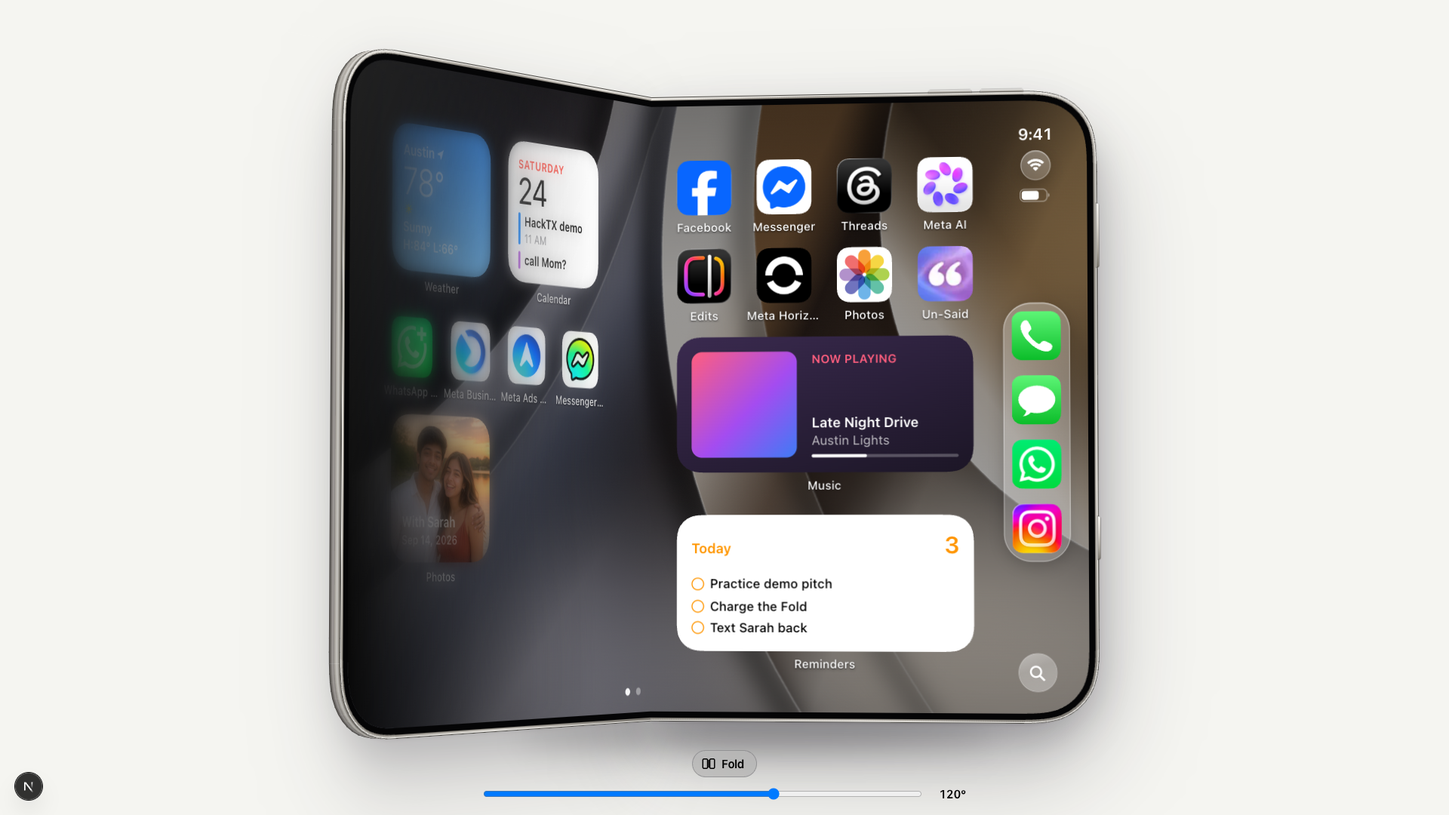
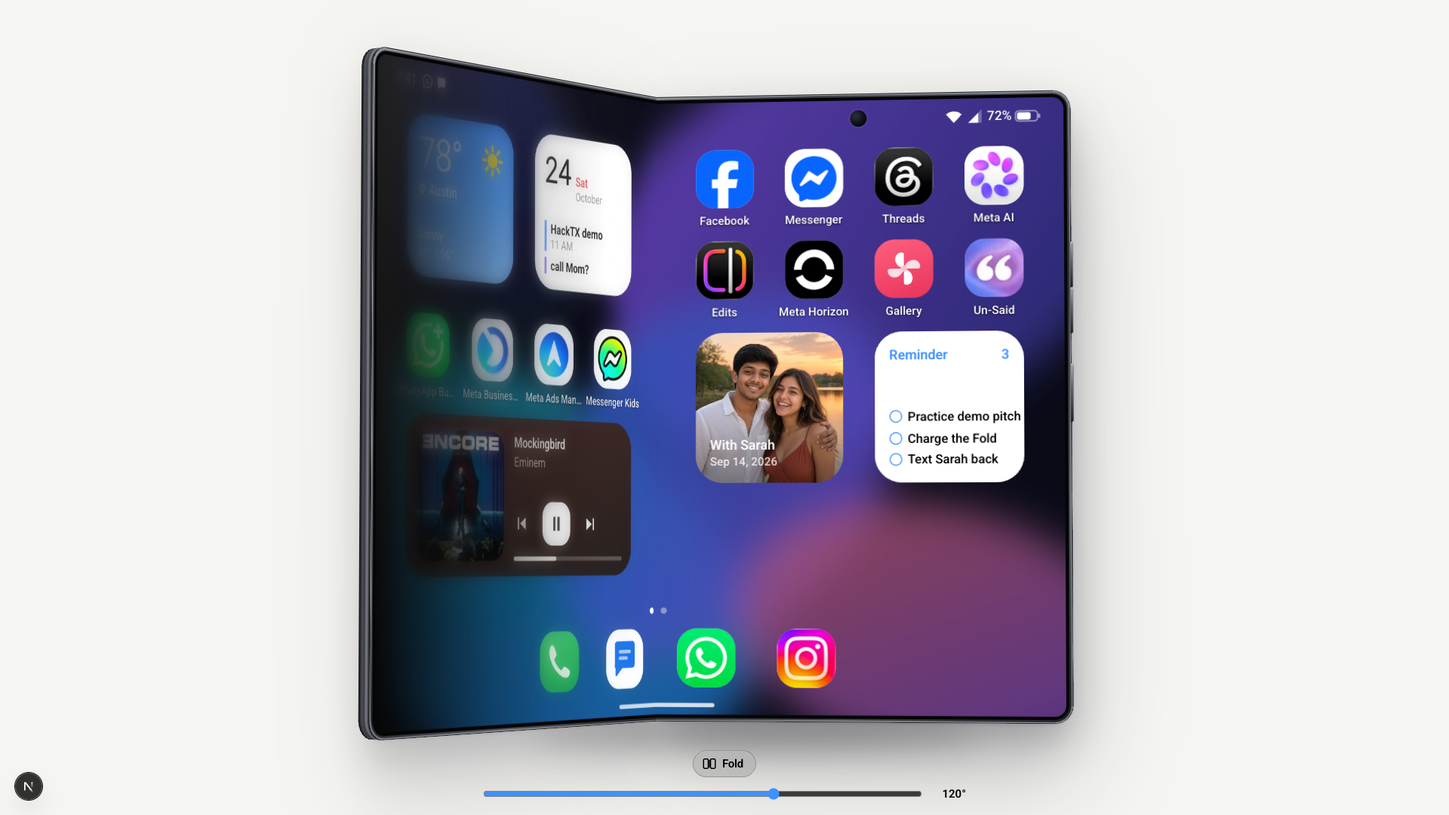
galaxy-z-fold8: Android Instagram, Samsung Gallery, checks pass

diff --git a/Branched-Frontend/lib/tokens.ts b/Branched-Frontend/lib/tokens.ts
@@ -118,8 +118,6 @@ const extraColors = {
   "ig-active": "#1CD14F",
   "ig-pressed": "#F2F2F2",
   "ig-reel-stroke": "rgba(255,255,255,0.7)",
-  "photos-segment-bg": "rgba(242,242,247,0.92)",
-  "photos-chrome-fade": "linear-gradient(180deg, rgba(255,255,255,0.97) 0%, rgba(255,255,255,0.9) 70%, rgba(255,255,255,0) 100%)",
   "ig-reel-tile-scrim": "linear-gradient(180deg, rgba(0,0,0,0.45) 0%, transparent 28%, transparent 70%, rgba(0,0,0,0.55) 100%)",
   "ig-reel-viewer-scrim": "linear-gradient(180deg, rgba(0,0,0,0.35) 0%, transparent 22%, transparent 62%, rgba(0,0,0,0.6) 100%)",
 } as const;

diff --git a/Branched-Frontend/app/tokens.css b/Branched-Frontend/app/tokens.css
@@ -383,8 +383,6 @@
   --ig-active: #1CD14F;
   --ig-pressed: #F2F2F2;
   --ig-reel-stroke: rgba(255,255,255,0.7);
-  --photos-segment-bg: rgba(242,242,247,0.92);
-  --photos-chrome-fade: linear-gradient(180deg, rgba(255,255,255,0.97) 0%, rgba(255,255,255,0.9) 70%, rgba(255,255,255,0) 100%);
   --ig-reel-tile-scrim: linear-gradient(180deg, rgba(0,0,0,0.45) 0%, transparent 28%, transparent 70%, rgba(0,0,0,0.55) 100%);
   --ig-reel-viewer-scrim: linear-gradient(180deg, rgba(0,0,0,0.35) 0%, transparent 22%, transparent 62%, rgba(0,0,0,0.6) 100%);
 

diff --git a/Branched-Frontend/docs/PLACEHOLDERS.md b/Branched-Frontend/docs/PLACEHOLDERS.md
@@ -12,37 +12,69 @@ Linked (open a look-alike app on either display):
 
 - `instagram`: `InstagramApp`
 - `messages`: `MessagesApp`
+- `phone`: `PhoneApp`
 - `photos`: `PhotosApp`
 - `unsaid`: `UnsaidApp`
 - `whatsapp`: `WhatsAppApp`
 
 Every other app icon, widget, Search and hardware button is empty (`null`): the tap does nothing.
-Non-app targets: `widget-weather`, `widget-calendar`, `widget-photos`, `widget-music`, `widget-reminders`, `search`, `hw-volume-up`, `hw-volume-down`, `hw-touch-id`, `hw-camera`.
+Non-app targets: `widget-weather`, `widget-calendar`, `widget-photos`, `widget-music`, `widget-reminders`, `search`, `hw-volume-up`, `hw-volume-down`, `hw-side-key`.
 
 ## WhatsApp (`whatsapp:`)
 
+- `whatsapp:archived`: `/scene/threads/whatsapp-chats`
 - `whatsapp:attach`: `/scene/threads/mom?state=compose&typed=0`, `/scene/threads/mom?state=compose&typed=0&banner=sarah`, `/scene/threads/mom?state=compose&typed=10`, `/scene/threads/mom?state=compose&typed=11`, `/scene/threads/mom?state=compose&typed=12`, `/scene/threads/mom?state=history`, `/scene/threads/mom?state=read`, `/scene/threads/mom?state=read&seen=off`
 - `whatsapp:call-start`: `/scene/threads/mom?state=compose&typed=0`, `/scene/threads/mom?state=compose&typed=0&banner=sarah`, `/scene/threads/mom?state=compose&typed=10`, `/scene/threads/mom?state=compose&typed=11`, `/scene/threads/mom?state=compose&typed=12`, `/scene/threads/mom?state=history`, `/scene/threads/mom?state=read`, `/scene/threads/mom?state=read&seen=off`
-- `whatsapp:camera`: `/scene/threads/mom?state=compose&typed=0`, `/scene/threads/mom?state=compose&typed=0&banner=sarah`, `/scene/threads/mom?state=compose&typed=10`, `/scene/threads/mom?state=compose&typed=11`, `/scene/threads/mom?state=compose&typed=12`, `/scene/threads/mom?state=history`, `/scene/threads/mom?state=read`, `/scene/threads/mom?state=read&seen=off`, `/test/placeholder`
+- `whatsapp:camera`: `/scene/threads/mom?state=compose&typed=0`, `/scene/threads/mom?state=compose&typed=0&banner=sarah`, `/scene/threads/mom?state=history`, `/scene/threads/mom?state=read`, `/scene/threads/mom?state=read&seen=off`, `/scene/threads/whatsapp-chats`, `/test/placeholder`
 - `whatsapp:contact-info`: `/scene/threads/mom?state=compose&typed=0`, `/scene/threads/mom?state=compose&typed=0&banner=sarah`, `/scene/threads/mom?state=compose&typed=10`, `/scene/threads/mom?state=compose&typed=11`, `/scene/threads/mom?state=compose&typed=12`, `/scene/threads/mom?state=history`, `/scene/threads/mom?state=read`, `/scene/threads/mom?state=read&seen=off`
-- `whatsapp:dictation`: `/scene/threads/mom?state=compose&typed=0`, `/scene/threads/mom?state=compose&typed=0&banner=sarah`, `/scene/threads/mom?state=compose&typed=10`, `/scene/threads/mom?state=compose&typed=11`, `/scene/threads/mom?state=compose&typed=12`
+- `whatsapp:dictation`: `/scene/threads/mom?state=compose&typed=0`, `/scene/threads/mom?state=compose&typed=0&banner=sarah`
+- `whatsapp:keyboard-clipboard`: `/scene/threads/mom?state=compose&typed=0`, `/scene/threads/mom?state=compose&typed=0&banner=sarah`
+- `whatsapp:keyboard-gif`: `/scene/threads/mom?state=compose&typed=0`, `/scene/threads/mom?state=compose&typed=0&banner=sarah`
+- `whatsapp:keyboard-more`: `/scene/threads/mom?state=compose&typed=0`, `/scene/threads/mom?state=compose&typed=0&banner=sarah`
+- `whatsapp:keyboard-settings`: `/scene/threads/mom?state=compose&typed=0`, `/scene/threads/mom?state=compose&typed=0&banner=sarah`
+- `whatsapp:keyboard-stickers`: `/scene/threads/mom?state=compose&typed=0`, `/scene/threads/mom?state=compose&typed=0&banner=sarah`
+- `whatsapp:menu`: `/scene/threads/mom?state=compose&typed=0`, `/scene/threads/mom?state=compose&typed=0&banner=sarah`, `/scene/threads/mom?state=compose&typed=10`, `/scene/threads/mom?state=compose&typed=11`, `/scene/threads/mom?state=compose&typed=12`, `/scene/threads/mom?state=history`, `/scene/threads/mom?state=read`, `/scene/threads/mom?state=read&seen=off`
+- `whatsapp:new-chat`: `/scene/threads/whatsapp-chats`
+- `whatsapp:new-list`: `/scene/threads/whatsapp-chats`
+- `whatsapp:search`: `/scene/threads/whatsapp-chats`
 - `whatsapp:sticker`: `/scene/threads/mom?state=compose&typed=0`, `/scene/threads/mom?state=compose&typed=0&banner=sarah`, `/scene/threads/mom?state=compose&typed=10`, `/scene/threads/mom?state=compose&typed=11`, `/scene/threads/mom?state=compose&typed=12`, `/scene/threads/mom?state=history`, `/scene/threads/mom?state=read`, `/scene/threads/mom?state=read&seen=off`
 - `whatsapp:voice-note`: `/scene/threads/mom?state=compose&typed=0`, `/scene/threads/mom?state=compose&typed=0&banner=sarah`, `/scene/threads/mom?state=compose&typed=10`, `/scene/threads/mom?state=compose&typed=11`, `/scene/threads/mom?state=compose&typed=12`, `/scene/threads/mom?state=history`, `/scene/threads/mom?state=read`, `/scene/threads/mom?state=read&seen=off`
 
 ## Messages (`messages:`)
 
-- `messages:dictation`: `/scene/threads/sarah?state=compose&typed=0`, `/scene/threads/sarah?state=compose&typed=33`, `/scene/threads/sarah?state=read-receipt`, `/scene/threads/sarah?state=read-receipt&banner=michael`, `/scene/threads/sarah?state=sent`, `/scene/threads/sarah?state=typing`
+- `messages:attach`: `/scene/threads/sarah?state=compose&typed=0`, `/scene/threads/sarah?state=compose&typed=33`, `/scene/threads/sarah?state=history`, `/scene/threads/sarah?state=read`, `/scene/threads/sarah?state=read-receipt`, `/scene/threads/sarah?state=read-receipt&banner=michael`, `/scene/threads/sarah?state=sent`, `/scene/threads/sarah?state=typing`
+- `messages:contact-details`: `/scene/threads/sarah?state=compose&typed=0`, `/scene/threads/sarah?state=compose&typed=33`, `/scene/threads/sarah?state=history`, `/scene/threads/sarah?state=read`, `/scene/threads/sarah?state=read-receipt`, `/scene/threads/sarah?state=read-receipt&banner=michael`, `/scene/threads/sarah?state=sent`, `/scene/threads/sarah?state=typing`
+- `messages:dictation`: `/scene/threads/sarah?state=compose&typed=0`, `/scene/threads/sarah?state=read-receipt`, `/scene/threads/sarah?state=read-receipt&banner=michael`, `/scene/threads/sarah?state=sent`, `/scene/threads/sarah?state=typing`
+- `messages:emoji`: `/scene/threads/sarah?state=compose&typed=0`, `/scene/threads/sarah?state=compose&typed=33`, `/scene/threads/sarah?state=history`, `/scene/threads/sarah?state=read`, `/scene/threads/sarah?state=read-receipt`, `/scene/threads/sarah?state=read-receipt&banner=michael`, `/scene/threads/sarah?state=sent`, `/scene/threads/sarah?state=typing`
+- `messages:gallery`: `/scene/threads/sarah?state=compose&typed=0`, `/scene/threads/sarah?state=history`, `/scene/threads/sarah?state=read`, `/scene/threads/sarah?state=read-receipt`, `/scene/threads/sarah?state=read-receipt&banner=michael`, `/scene/threads/sarah?state=sent`, `/scene/threads/sarah?state=typing`
+- `messages:keyboard-clipboard`: `/scene/threads/sarah?state=compose&typed=0`, `/scene/threads/sarah?state=read-receipt`, `/scene/threads/sarah?state=read-receipt&banner=michael`, `/scene/threads/sarah?state=sent`, `/scene/threads/sarah?state=typing`
+- `messages:keyboard-gif`: `/scene/threads/sarah?state=compose&typed=0`, `/scene/threads/sarah?state=read-receipt`, `/scene/threads/sarah?state=read-receipt&banner=michael`, `/scene/threads/sarah?state=sent`, `/scene/threads/sarah?state=typing`
+- `messages:keyboard-more`: `/scene/threads/sarah?state=compose&typed=0`, `/scene/threads/sarah?state=read-receipt`, `/scene/threads/sarah?state=read-receipt&banner=michael`, `/scene/threads/sarah?state=sent`, `/scene/threads/sarah?state=typing`
+- `messages:keyboard-settings`: `/scene/threads/sarah?state=compose&typed=0`, `/scene/threads/sarah?state=read-receipt`, `/scene/threads/sarah?state=read-receipt&banner=michael`, `/scene/threads/sarah?state=sent`, `/scene/threads/sarah?state=typing`
+- `messages:keyboard-stickers`: `/scene/threads/sarah?state=compose&typed=0`, `/scene/threads/sarah?state=read-receipt`, `/scene/threads/sarah?state=read-receipt&banner=michael`, `/scene/threads/sarah?state=sent`, `/scene/threads/sarah?state=typing`
+- `messages:more`: `/scene/threads/sarah?state=compose&typed=0`, `/scene/threads/sarah?state=compose&typed=33`, `/scene/threads/sarah?state=history`, `/scene/threads/sarah?state=read`, `/scene/threads/sarah?state=read-receipt`, `/scene/threads/sarah?state=read-receipt&banner=michael`, `/scene/threads/sarah?state=sent`, `/scene/threads/sarah?state=typing`
 - `messages:plus`: `/test/placeholder`
+- `messages:video-call`: `/scene/threads/sarah?state=compose&typed=0`, `/scene/threads/sarah?state=compose&typed=33`, `/scene/threads/sarah?state=history`, `/scene/threads/sarah?state=read`, `/scene/threads/sarah?state=read-receipt`, `/scene/threads/sarah?state=read-receipt&banner=michael`, `/scene/threads/sarah?state=sent`, `/scene/threads/sarah?state=typing`
+- `messages:voice`: `/scene/threads/sarah?state=compose&typed=0`, `/scene/threads/sarah?state=history`, `/scene/threads/sarah?state=read`, `/scene/threads/sarah?state=read-receipt`, `/scene/threads/sarah?state=read-receipt&banner=michael`, `/scene/threads/sarah?state=sent`, `/scene/threads/sarah?state=typing`
 
 ## Instagram (`instagram:`)
 
-- `instagram:dictation`: `/scene/threads/michael?state=compose&typed=0`, `/scene/threads/michael?state=compose&typed=11`, `/scene/threads/michael?state=compose&typed=22`, `/scene/threads/michael?state=sent`, `/scene/threads/michael?state=sent&banner=unsaid`
+- `instagram:dictation`: `/scene/threads/michael?state=compose&typed=0`, `/scene/threads/michael?state=sent`, `/scene/threads/michael?state=sent&banner=unsaid`
+- `instagram:keyboard-clipboard`: `/scene/threads/michael?state=compose&typed=0`, `/scene/threads/michael?state=sent`, `/scene/threads/michael?state=sent&banner=unsaid`
+- `instagram:keyboard-gif`: `/scene/threads/michael?state=compose&typed=0`, `/scene/threads/michael?state=sent`, `/scene/threads/michael?state=sent&banner=unsaid`
+- `instagram:keyboard-more`: `/scene/threads/michael?state=compose&typed=0`, `/scene/threads/michael?state=sent`, `/scene/threads/michael?state=sent&banner=unsaid`
+- `instagram:keyboard-settings`: `/scene/threads/michael?state=compose&typed=0`, `/scene/threads/michael?state=sent`, `/scene/threads/michael?state=sent&banner=unsaid`
+- `instagram:keyboard-stickers`: `/scene/threads/michael?state=compose&typed=0`, `/scene/threads/michael?state=sent`, `/scene/threads/michael?state=sent&banner=unsaid`
 - `instagram:share`: `/test/placeholder`
 
-## Photos (`photos:`)
+## Gallery (`photos:`)
 
 - `photos:favorite`: `/test/placeholder`
 - `photos:trash`: `/test/placeholder`
+
+## Phone (`phone:`)
+
+- none yet
 
 ## Facebook (`facebook:`)
 
@@ -52,30 +84,30 @@ Non-app targets: `widget-weather`, `widget-calendar`, `widget-photos`, `widget-m
 
 - `meta-ai:send`: `/test/placeholder`
 
-## iOS (`ios:`)
+## One UI (`oneui:`)
 
-- `ios:app-edits`: `/device?state=back&bg=studio`, `/device?state=folded&bg=black`, `/device?state=folded&bg=studio`, `/device?state=folded&bg=studio&frame=bare`, `/device?state=folded&bg=white`, `/device?state=folded-angled&bg=black`, `/device?state=unfold-120&bg=studio`, `/device?state=unfold-120&bg=studio&frame=bare`, `/device?state=unfold-150&bg=studio`, `/device?state=unfold-150&bg=studio&frame=bare`, `/device?state=unfold-30&bg=studio`, `/device?state=unfold-30&bg=studio&frame=bare`, `/device?state=unfold-60&bg=studio`, `/device?state=unfold-60&bg=studio&frame=bare`, `/device?state=unfold-90&bg=studio`, `/device?state=unfold-90&bg=studio&frame=bare`, `/device?state=unfolded&bg=black`, `/device?state=unfolded&bg=studio`, `/device?state=unfolded&bg=studio&frame=bare`
-- `ios:app-facebook`: `/device?state=back&bg=studio`, `/device?state=folded&bg=black`, `/device?state=folded&bg=studio`, `/device?state=folded&bg=studio&frame=bare`, `/device?state=folded&bg=white`, `/device?state=folded-angled&bg=black`, `/device?state=unfold-120&bg=studio`, `/device?state=unfold-120&bg=studio&frame=bare`, `/device?state=unfold-150&bg=studio`, `/device?state=unfold-150&bg=studio&frame=bare`, `/device?state=unfold-30&bg=studio`, `/device?state=unfold-30&bg=studio&frame=bare`, `/device?state=unfold-60&bg=studio`, `/device?state=unfold-60&bg=studio&frame=bare`, `/device?state=unfold-90&bg=studio`, `/device?state=unfold-90&bg=studio&frame=bare`, `/device?state=unfolded&bg=black`, `/device?state=unfolded&bg=studio`, `/device?state=unfolded&bg=studio&frame=bare`
-- `ios:app-instagram`: `/device?state=back&bg=studio`, `/device?state=folded&bg=black`, `/device?state=folded&bg=studio`, `/device?state=folded&bg=studio&frame=bare`, `/device?state=folded&bg=white`, `/device?state=folded-angled&bg=black`, `/device?state=unfold-120&bg=studio`, `/device?state=unfold-120&bg=studio&frame=bare`, `/device?state=unfold-150&bg=studio`, `/device?state=unfold-150&bg=studio&frame=bare`, `/device?state=unfold-30&bg=studio`, `/device?state=unfold-30&bg=studio&frame=bare`, `/device?state=unfold-60&bg=studio`, `/device?state=unfold-60&bg=studio&frame=bare`, `/device?state=unfold-90&bg=studio`, `/device?state=unfold-90&bg=studio&frame=bare`, `/device?state=unfolded&bg=black`, `/device?state=unfolded&bg=studio`, `/device?state=unfolded&bg=studio&frame=bare`
-- `ios:app-messages`: `/device?state=back&bg=studio`, `/device?state=folded&bg=black`, `/device?state=folded&bg=studio`, `/device?state=folded&bg=studio&frame=bare`, `/device?state=folded&bg=white`, `/device?state=folded-angled&bg=black`, `/device?state=unfold-120&bg=studio`, `/device?state=unfold-120&bg=studio&frame=bare`, `/device?state=unfold-150&bg=studio`, `/device?state=unfold-150&bg=studio&frame=bare`, `/device?state=unfold-30&bg=studio`, `/device?state=unfold-30&bg=studio&frame=bare`, `/device?state=unfold-60&bg=studio`, `/device?state=unfold-60&bg=studio&frame=bare`, `/device?state=unfold-90&bg=studio`, `/device?state=unfold-90&bg=studio&frame=bare`, `/device?state=unfolded&bg=black`, `/device?state=unfolded&bg=studio`, `/device?state=unfolded&bg=studio&frame=bare`
-- `ios:app-messenger`: `/device?state=back&bg=studio`, `/device?state=folded&bg=black`, `/device?state=folded&bg=studio`, `/device?state=folded&bg=studio&frame=bare`, `/device?state=folded&bg=white`, `/device?state=folded-angled&bg=black`, `/device?state=unfold-120&bg=studio`, `/device?state=unfold-120&bg=studio&frame=bare`, `/device?state=unfold-150&bg=studio`, `/device?state=unfold-150&bg=studio&frame=bare`, `/device?state=unfold-30&bg=studio`, `/device?state=unfold-30&bg=studio&frame=bare`, `/device?state=unfold-60&bg=studio`, `/device?state=unfold-60&bg=studio&frame=bare`, `/device?state=unfold-90&bg=studio`, `/device?state=unfold-90&bg=studio&frame=bare`, `/device?state=unfolded&bg=black`, `/device?state=unfolded&bg=studio`, `/device?state=unfolded&bg=studio&frame=bare`
-- `ios:app-messenger-kids`: `/device?state=back&bg=studio`, `/device?state=folded&bg=black`, `/device?state=folded&bg=studio`, `/device?state=folded&bg=studio&frame=bare`, `/device?state=folded&bg=white`, `/device?state=folded-angled&bg=black`, `/device?state=unfold-120&bg=studio`, `/device?state=unfold-120&bg=studio&frame=bare`, `/device?state=unfold-150&bg=studio`, `/device?state=unfold-150&bg=studio&frame=bare`, `/device?state=unfold-30&bg=studio`, `/device?state=unfold-30&bg=studio&frame=bare`, `/device?state=unfold-60&bg=studio`, `/device?state=unfold-60&bg=studio&frame=bare`, `/device?state=unfold-90&bg=studio`, `/device?state=unfold-90&bg=studio&frame=bare`, `/device?state=unfolded&bg=black`, `/device?state=unfolded&bg=studio`, `/device?state=unfolded&bg=studio&frame=bare`
-- `ios:app-meta-ads-manager`: `/device?state=back&bg=studio`, `/device?state=folded&bg=black`, `/device?state=folded&bg=studio`, `/device?state=folded&bg=studio&frame=bare`, `/device?state=folded&bg=white`, `/device?state=folded-angled&bg=black`, `/device?state=unfold-120&bg=studio`, `/device?state=unfold-120&bg=studio&frame=bare`, `/device?state=unfold-150&bg=studio`, `/device?state=unfold-150&bg=studio&frame=bare`, `/device?state=unfold-30&bg=studio`, `/device?state=unfold-30&bg=studio&frame=bare`, `/device?state=unfold-60&bg=studio`, `/device?state=unfold-60&bg=studio&frame=bare`, `/device?state=unfold-90&bg=studio`, `/device?state=unfold-90&bg=studio&frame=bare`, `/device?state=unfolded&bg=black`, `/device?state=unfolded&bg=studio`, `/device?state=unfolded&bg=studio&frame=bare`
-- `ios:app-meta-ai`: `/device?state=back&bg=studio`, `/device?state=folded&bg=black`, `/device?state=folded&bg=studio`, `/device?state=folded&bg=studio&frame=bare`, `/device?state=folded&bg=white`, `/device?state=folded-angled&bg=black`, `/device?state=unfold-120&bg=studio`, `/device?state=unfold-120&bg=studio&frame=bare`, `/device?state=unfold-150&bg=studio`, `/device?state=unfold-150&bg=studio&frame=bare`, `/device?state=unfold-30&bg=studio`, `/device?state=unfold-30&bg=studio&frame=bare`, `/device?state=unfold-60&bg=studio`, `/device?state=unfold-60&bg=studio&frame=bare`, `/device?state=unfold-90&bg=studio`, `/device?state=unfold-90&bg=studio&frame=bare`, `/device?state=unfolded&bg=black`, `/device?state=unfolded&bg=studio`, `/device?state=unfolded&bg=studio&frame=bare`
-- `ios:app-meta-business-suite`: `/device?state=back&bg=studio`, `/device?state=folded&bg=black`, `/device?state=folded&bg=studio`, `/device?state=folded&bg=studio&frame=bare`, `/device?state=folded&bg=white`, `/device?state=folded-angled&bg=black`, `/device?state=unfold-120&bg=studio`, `/device?state=unfold-120&bg=studio&frame=bare`, `/device?state=unfold-150&bg=studio`, `/device?state=unfold-150&bg=studio&frame=bare`, `/device?state=unfold-30&bg=studio`, `/device?state=unfold-30&bg=studio&frame=bare`, `/device?state=unfold-60&bg=studio`, `/device?state=unfold-60&bg=studio&frame=bare`, `/device?state=unfold-90&bg=studio`, `/device?state=unfold-90&bg=studio&frame=bare`, `/device?state=unfolded&bg=black`, `/device?state=unfolded&bg=studio`, `/device?state=unfolded&bg=studio&frame=bare`
-- `ios:app-meta-horizon`: `/device?state=back&bg=studio`, `/device?state=folded&bg=black`, `/device?state=folded&bg=studio`, `/device?state=folded&bg=studio&frame=bare`, `/device?state=folded&bg=white`, `/device?state=folded-angled&bg=black`, `/device?state=unfold-120&bg=studio`, `/device?state=unfold-120&bg=studio&frame=bare`, `/device?state=unfold-150&bg=studio`, `/device?state=unfold-150&bg=studio&frame=bare`, `/device?state=unfold-30&bg=studio`, `/device?state=unfold-30&bg=studio&frame=bare`, `/device?state=unfold-60&bg=studio`, `/device?state=unfold-60&bg=studio&frame=bare`, `/device?state=unfold-90&bg=studio`, `/device?state=unfold-90&bg=studio&frame=bare`, `/device?state=unfolded&bg=black`, `/device?state=unfolded&bg=studio`, `/device?state=unfolded&bg=studio&frame=bare`
-- `ios:app-phone`: `/device?state=back&bg=studio`, `/device?state=folded&bg=black`, `/device?state=folded&bg=studio`, `/device?state=folded&bg=studio&frame=bare`, `/device?state=folded&bg=white`, `/device?state=folded-angled&bg=black`, `/device?state=unfold-120&bg=studio`, `/device?state=unfold-120&bg=studio&frame=bare`, `/device?state=unfold-150&bg=studio`, `/device?state=unfold-150&bg=studio&frame=bare`, `/device?state=unfold-30&bg=studio`, `/device?state=unfold-30&bg=studio&frame=bare`, `/device?state=unfold-60&bg=studio`, `/device?state=unfold-60&bg=studio&frame=bare`, `/device?state=unfold-90&bg=studio`, `/device?state=unfold-90&bg=studio&frame=bare`, `/device?state=unfolded&bg=black`, `/device?state=unfolded&bg=studio`, `/device?state=unfolded&bg=studio&frame=bare`
-- `ios:app-photos`: `/device?state=back&bg=studio`, `/device?state=folded&bg=black`, `/device?state=folded&bg=studio`, `/device?state=folded&bg=studio&frame=bare`, `/device?state=folded&bg=white`, `/device?state=folded-angled&bg=black`, `/device?state=unfold-120&bg=studio`, `/device?state=unfold-120&bg=studio&frame=bare`, `/device?state=unfold-150&bg=studio`, `/device?state=unfold-150&bg=studio&frame=bare`, `/device?state=unfold-30&bg=studio`, `/device?state=unfold-30&bg=studio&frame=bare`, `/device?state=unfold-60&bg=studio`, `/device?state=unfold-60&bg=studio&frame=bare`, `/device?state=unfold-90&bg=studio`, `/device?state=unfold-90&bg=studio&frame=bare`, `/device?state=unfolded&bg=black`, `/device?state=unfolded&bg=studio`, `/device?state=unfolded&bg=studio&frame=bare`
-- `ios:app-threads`: `/device?state=back&bg=studio`, `/device?state=folded&bg=black`, `/device?state=folded&bg=studio`, `/device?state=folded&bg=studio&frame=bare`, `/device?state=folded&bg=white`, `/device?state=folded-angled&bg=black`, `/device?state=unfold-120&bg=studio`, `/device?state=unfold-120&bg=studio&frame=bare`, `/device?state=unfold-150&bg=studio`, `/device?state=unfold-150&bg=studio&frame=bare`, `/device?state=unfold-30&bg=studio`, `/device?state=unfold-30&bg=studio&frame=bare`, `/device?state=unfold-60&bg=studio`, `/device?state=unfold-60&bg=studio&frame=bare`, `/device?state=unfold-90&bg=studio`, `/device?state=unfold-90&bg=studio&frame=bare`, `/device?state=unfolded&bg=black`, `/device?state=unfolded&bg=studio`, `/device?state=unfolded&bg=studio&frame=bare`
-- `ios:app-unsaid`: `/device?state=back&bg=studio`, `/device?state=folded&bg=black`, `/device?state=folded&bg=studio`, `/device?state=folded&bg=studio&frame=bare`, `/device?state=folded&bg=white`, `/device?state=folded-angled&bg=black`, `/device?state=unfold-120&bg=studio`, `/device?state=unfold-120&bg=studio&frame=bare`, `/device?state=unfold-150&bg=studio`, `/device?state=unfold-150&bg=studio&frame=bare`, `/device?state=unfold-30&bg=studio`, `/device?state=unfold-30&bg=studio&frame=bare`, `/device?state=unfold-60&bg=studio`, `/device?state=unfold-60&bg=studio&frame=bare`, `/device?state=unfold-90&bg=studio`, `/device?state=unfold-90&bg=studio&frame=bare`, `/device?state=unfolded&bg=black`, `/device?state=unfolded&bg=studio`, `/device?state=unfolded&bg=studio&frame=bare`
-- `ios:app-whatsapp`: `/device?state=back&bg=studio`, `/device?state=folded&bg=black`, `/device?state=folded&bg=studio`, `/device?state=folded&bg=studio&frame=bare`, `/device?state=folded&bg=white`, `/device?state=folded-angled&bg=black`, `/device?state=unfold-120&bg=studio`, `/device?state=unfold-120&bg=studio&frame=bare`, `/device?state=unfold-150&bg=studio`, `/device?state=unfold-150&bg=studio&frame=bare`, `/device?state=unfold-30&bg=studio`, `/device?state=unfold-30&bg=studio&frame=bare`, `/device?state=unfold-60&bg=studio`, `/device?state=unfold-60&bg=studio&frame=bare`, `/device?state=unfold-90&bg=studio`, `/device?state=unfold-90&bg=studio&frame=bare`, `/device?state=unfolded&bg=black`, `/device?state=unfolded&bg=studio`, `/device?state=unfolded&bg=studio&frame=bare`
-- `ios:app-whatsapp-business`: `/device?state=back&bg=studio`, `/device?state=folded&bg=black`, `/device?state=folded&bg=studio`, `/device?state=folded&bg=studio&frame=bare`, `/device?state=folded&bg=white`, `/device?state=folded-angled&bg=black`, `/device?state=unfold-120&bg=studio`, `/device?state=unfold-120&bg=studio&frame=bare`, `/device?state=unfold-150&bg=studio`, `/device?state=unfold-150&bg=studio&frame=bare`, `/device?state=unfold-30&bg=studio`, `/device?state=unfold-30&bg=studio&frame=bare`, `/device?state=unfold-60&bg=studio`, `/device?state=unfold-60&bg=studio&frame=bare`, `/device?state=unfold-90&bg=studio`, `/device?state=unfold-90&bg=studio&frame=bare`, `/device?state=unfolded&bg=black`, `/device?state=unfolded&bg=studio`, `/device?state=unfolded&bg=studio&frame=bare`
-- `ios:search`: `/device?state=back&bg=studio`, `/device?state=folded&bg=black`, `/device?state=folded&bg=studio`, `/device?state=folded&bg=studio&frame=bare`, `/device?state=folded&bg=white`, `/device?state=folded-angled&bg=black`, `/device?state=unfold-120&bg=studio`, `/device?state=unfold-120&bg=studio&frame=bare`, `/device?state=unfold-150&bg=studio`, `/device?state=unfold-150&bg=studio&frame=bare`, `/device?state=unfold-30&bg=studio`, `/device?state=unfold-30&bg=studio&frame=bare`, `/device?state=unfold-60&bg=studio`, `/device?state=unfold-60&bg=studio&frame=bare`, `/device?state=unfold-90&bg=studio`, `/device?state=unfold-90&bg=studio&frame=bare`, `/device?state=unfolded&bg=black`, `/device?state=unfolded&bg=studio`, `/device?state=unfolded&bg=studio&frame=bare`, `/test/placeholder`
-- `ios:widget-calendar`: `/device?state=back&bg=studio`, `/device?state=folded&bg=black`, `/device?state=folded&bg=studio`, `/device?state=folded&bg=studio&frame=bare`, `/device?state=folded&bg=white`, `/device?state=folded-angled&bg=black`, `/device?state=unfold-120&bg=studio`, `/device?state=unfold-120&bg=studio&frame=bare`, `/device?state=unfold-150&bg=studio`, `/device?state=unfold-150&bg=studio&frame=bare`, `/device?state=unfold-30&bg=studio`, `/device?state=unfold-30&bg=studio&frame=bare`, `/device?state=unfold-60&bg=studio`, `/device?state=unfold-60&bg=studio&frame=bare`, `/device?state=unfold-90&bg=studio`, `/device?state=unfold-90&bg=studio&frame=bare`, `/device?state=unfolded&bg=black`, `/device?state=unfolded&bg=studio`, `/device?state=unfolded&bg=studio&frame=bare`
-- `ios:widget-music`: `/device?state=back&bg=studio`, `/device?state=folded&bg=black`, `/device?state=folded&bg=studio`, `/device?state=folded&bg=studio&frame=bare`, `/device?state=folded&bg=white`, `/device?state=folded-angled&bg=black`, `/device?state=unfold-120&bg=studio`, `/device?state=unfold-120&bg=studio&frame=bare`, `/device?state=unfold-150&bg=studio`, `/device?state=unfold-150&bg=studio&frame=bare`, `/device?state=unfold-30&bg=studio`, `/device?state=unfold-30&bg=studio&frame=bare`, `/device?state=unfold-60&bg=studio`, `/device?state=unfold-60&bg=studio&frame=bare`, `/device?state=unfold-90&bg=studio`, `/device?state=unfold-90&bg=studio&frame=bare`, `/device?state=unfolded&bg=black`, `/device?state=unfolded&bg=studio`, `/device?state=unfolded&bg=studio&frame=bare`
-- `ios:widget-photos`: `/device?state=back&bg=studio`, `/device?state=folded&bg=black`, `/device?state=folded&bg=studio`, `/device?state=folded&bg=studio&frame=bare`, `/device?state=folded&bg=white`, `/device?state=folded-angled&bg=black`, `/device?state=unfold-120&bg=studio`, `/device?state=unfold-120&bg=studio&frame=bare`, `/device?state=unfold-150&bg=studio`, `/device?state=unfold-150&bg=studio&frame=bare`, `/device?state=unfold-30&bg=studio`, `/device?state=unfold-30&bg=studio&frame=bare`, `/device?state=unfold-60&bg=studio`, `/device?state=unfold-60&bg=studio&frame=bare`, `/device?state=unfold-90&bg=studio`, `/device?state=unfold-90&bg=studio&frame=bare`, `/device?state=unfolded&bg=black`, `/device?state=unfolded&bg=studio`, `/device?state=unfolded&bg=studio&frame=bare`
-- `ios:widget-reminders`: `/device?state=back&bg=studio`, `/device?state=folded&bg=black`, `/device?state=folded&bg=studio`, `/device?state=folded&bg=studio&frame=bare`, `/device?state=folded&bg=white`, `/device?state=folded-angled&bg=black`, `/device?state=unfold-120&bg=studio`, `/device?state=unfold-120&bg=studio&frame=bare`, `/device?state=unfold-150&bg=studio`, `/device?state=unfold-150&bg=studio&frame=bare`, `/device?state=unfold-30&bg=studio`, `/device?state=unfold-30&bg=studio&frame=bare`, `/device?state=unfold-60&bg=studio`, `/device?state=unfold-60&bg=studio&frame=bare`, `/device?state=unfold-90&bg=studio`, `/device?state=unfold-90&bg=studio&frame=bare`, `/device?state=unfolded&bg=black`, `/device?state=unfolded&bg=studio`, `/device?state=unfolded&bg=studio&frame=bare`
-- `ios:widget-weather`: `/device?state=back&bg=studio`, `/device?state=folded&bg=black`, `/device?state=folded&bg=studio`, `/device?state=folded&bg=studio&frame=bare`, `/device?state=folded&bg=white`, `/device?state=folded-angled&bg=black`, `/device?state=unfold-120&bg=studio`, `/device?state=unfold-120&bg=studio&frame=bare`, `/device?state=unfold-150&bg=studio`, `/device?state=unfold-150&bg=studio&frame=bare`, `/device?state=unfold-30&bg=studio`, `/device?state=unfold-30&bg=studio&frame=bare`, `/device?state=unfold-60&bg=studio`, `/device?state=unfold-60&bg=studio&frame=bare`, `/device?state=unfold-90&bg=studio`, `/device?state=unfold-90&bg=studio&frame=bare`, `/device?state=unfolded&bg=black`, `/device?state=unfolded&bg=studio`, `/device?state=unfolded&bg=studio&frame=bare`
+- `oneui:app-edits`: `/device?state=back&bg=studio`, `/device?state=folded&bg=black`, `/device?state=folded&bg=studio`, `/device?state=folded&bg=studio&frame=bare`, `/device?state=folded&bg=white`, `/device?state=folded-angled&bg=black`, `/device?state=unfold-120&bg=studio`, `/device?state=unfold-120&bg=studio&frame=bare`, `/device?state=unfold-150&bg=studio`, `/device?state=unfold-150&bg=studio&frame=bare`, `/device?state=unfold-30&bg=studio`, `/device?state=unfold-30&bg=studio&frame=bare`, `/device?state=unfold-60&bg=studio`, `/device?state=unfold-60&bg=studio&frame=bare`, `/device?state=unfold-90&bg=studio`, `/device?state=unfold-90&bg=studio&frame=bare`, `/device?state=unfolded&bg=black`, `/device?state=unfolded&bg=studio`, `/device?state=unfolded&bg=studio&frame=bare`
+- `oneui:app-facebook`: `/device?state=back&bg=studio`, `/device?state=folded&bg=black`, `/device?state=folded&bg=studio`, `/device?state=folded&bg=studio&frame=bare`, `/device?state=folded&bg=white`, `/device?state=folded-angled&bg=black`, `/device?state=unfold-120&bg=studio`, `/device?state=unfold-120&bg=studio&frame=bare`, `/device?state=unfold-150&bg=studio`, `/device?state=unfold-150&bg=studio&frame=bare`, `/device?state=unfold-30&bg=studio`, `/device?state=unfold-30&bg=studio&frame=bare`, `/device?state=unfold-60&bg=studio`, `/device?state=unfold-60&bg=studio&frame=bare`, `/device?state=unfold-90&bg=studio`, `/device?state=unfold-90&bg=studio&frame=bare`, `/device?state=unfolded&bg=black`, `/device?state=unfolded&bg=studio`, `/device?state=unfolded&bg=studio&frame=bare`
+- `oneui:app-instagram`: `/device?state=back&bg=studio`, `/device?state=folded&bg=black`, `/device?state=folded&bg=studio`, `/device?state=folded&bg=studio&frame=bare`, `/device?state=folded&bg=white`, `/device?state=folded-angled&bg=black`, `/device?state=unfold-120&bg=studio`, `/device?state=unfold-120&bg=studio&frame=bare`, `/device?state=unfold-150&bg=studio`, `/device?state=unfold-150&bg=studio&frame=bare`, `/device?state=unfold-30&bg=studio`, `/device?state=unfold-30&bg=studio&frame=bare`, `/device?state=unfold-60&bg=studio`, `/device?state=unfold-60&bg=studio&frame=bare`, `/device?state=unfold-90&bg=studio`, `/device?state=unfold-90&bg=studio&frame=bare`, `/device?state=unfolded&bg=black`, `/device?state=unfolded&bg=studio`, `/device?state=unfolded&bg=studio&frame=bare`
+- `oneui:app-messages`: `/device?state=back&bg=studio`, `/device?state=folded&bg=black`, `/device?state=folded&bg=studio`, `/device?state=folded&bg=studio&frame=bare`, `/device?state=folded&bg=white`, `/device?state=folded-angled&bg=black`, `/device?state=unfold-120&bg=studio`, `/device?state=unfold-120&bg=studio&frame=bare`, `/device?state=unfold-150&bg=studio`, `/device?state=unfold-150&bg=studio&frame=bare`, `/device?state=unfold-30&bg=studio`, `/device?state=unfold-30&bg=studio&frame=bare`, `/device?state=unfold-60&bg=studio`, `/device?state=unfold-60&bg=studio&frame=bare`, `/device?state=unfold-90&bg=studio`, `/device?state=unfold-90&bg=studio&frame=bare`, `/device?state=unfolded&bg=black`, `/device?state=unfolded&bg=studio`, `/device?state=unfolded&bg=studio&frame=bare`
+- `oneui:app-messenger`: `/device?state=back&bg=studio`, `/device?state=folded&bg=black`, `/device?state=folded&bg=studio`, `/device?state=folded&bg=studio&frame=bare`, `/device?state=folded&bg=white`, `/device?state=folded-angled&bg=black`, `/device?state=unfold-120&bg=studio`, `/device?state=unfold-120&bg=studio&frame=bare`, `/device?state=unfold-150&bg=studio`, `/device?state=unfold-150&bg=studio&frame=bare`, `/device?state=unfold-30&bg=studio`, `/device?state=unfold-30&bg=studio&frame=bare`, `/device?state=unfold-60&bg=studio`, `/device?state=unfold-60&bg=studio&frame=bare`, `/device?state=unfold-90&bg=studio`, `/device?state=unfold-90&bg=studio&frame=bare`, `/device?state=unfolded&bg=black`, `/device?state=unfolded&bg=studio`, `/device?state=unfolded&bg=studio&frame=bare`
+- `oneui:app-messenger-kids`: `/device?state=back&bg=studio`, `/device?state=folded&bg=black`, `/device?state=folded&bg=studio`, `/device?state=folded&bg=studio&frame=bare`, `/device?state=folded&bg=white`, `/device?state=folded-angled&bg=black`, `/device?state=unfold-120&bg=studio`, `/device?state=unfold-120&bg=studio&frame=bare`, `/device?state=unfold-150&bg=studio`, `/device?state=unfold-150&bg=studio&frame=bare`, `/device?state=unfold-30&bg=studio`, `/device?state=unfold-30&bg=studio&frame=bare`, `/device?state=unfold-60&bg=studio`, `/device?state=unfold-60&bg=studio&frame=bare`, `/device?state=unfold-90&bg=studio`, `/device?state=unfold-90&bg=studio&frame=bare`, `/device?state=unfolded&bg=black`, `/device?state=unfolded&bg=studio`, `/device?state=unfolded&bg=studio&frame=bare`
+- `oneui:app-meta-ads-manager`: `/device?state=back&bg=studio`, `/device?state=folded&bg=black`, `/device?state=folded&bg=studio`, `/device?state=folded&bg=studio&frame=bare`, `/device?state=folded&bg=white`, `/device?state=folded-angled&bg=black`, `/device?state=unfold-120&bg=studio`, `/device?state=unfold-120&bg=studio&frame=bare`, `/device?state=unfold-150&bg=studio`, `/device?state=unfold-150&bg=studio&frame=bare`, `/device?state=unfold-30&bg=studio`, `/device?state=unfold-30&bg=studio&frame=bare`, `/device?state=unfold-60&bg=studio`, `/device?state=unfold-60&bg=studio&frame=bare`, `/device?state=unfold-90&bg=studio`, `/device?state=unfold-90&bg=studio&frame=bare`, `/device?state=unfolded&bg=black`, `/device?state=unfolded&bg=studio`, `/device?state=unfolded&bg=studio&frame=bare`
+- `oneui:app-meta-ai`: `/device?state=back&bg=studio`, `/device?state=folded&bg=black`, `/device?state=folded&bg=studio`, `/device?state=folded&bg=studio&frame=bare`, `/device?state=folded&bg=white`, `/device?state=folded-angled&bg=black`, `/device?state=unfold-120&bg=studio`, `/device?state=unfold-120&bg=studio&frame=bare`, `/device?state=unfold-150&bg=studio`, `/device?state=unfold-150&bg=studio&frame=bare`, `/device?state=unfold-30&bg=studio`, `/device?state=unfold-30&bg=studio&frame=bare`, `/device?state=unfold-60&bg=studio`, `/device?state=unfold-60&bg=studio&frame=bare`, `/device?state=unfold-90&bg=studio`, `/device?state=unfold-90&bg=studio&frame=bare`, `/device?state=unfolded&bg=black`, `/device?state=unfolded&bg=studio`, `/device?state=unfolded&bg=studio&frame=bare`
+- `oneui:app-meta-business-suite`: `/device?state=back&bg=studio`, `/device?state=folded&bg=black`, `/device?state=folded&bg=studio`, `/device?state=folded&bg=studio&frame=bare`, `/device?state=folded&bg=white`, `/device?state=folded-angled&bg=black`, `/device?state=unfold-120&bg=studio`, `/device?state=unfold-120&bg=studio&frame=bare`, `/device?state=unfold-150&bg=studio`, `/device?state=unfold-150&bg=studio&frame=bare`, `/device?state=unfold-30&bg=studio`, `/device?state=unfold-30&bg=studio&frame=bare`, `/device?state=unfold-60&bg=studio`, `/device?state=unfold-60&bg=studio&frame=bare`, `/device?state=unfold-90&bg=studio`, `/device?state=unfold-90&bg=studio&frame=bare`, `/device?state=unfolded&bg=black`, `/device?state=unfolded&bg=studio`, `/device?state=unfolded&bg=studio&frame=bare`
+- `oneui:app-meta-horizon`: `/device?state=back&bg=studio`, `/device?state=folded&bg=black`, `/device?state=folded&bg=studio`, `/device?state=folded&bg=studio&frame=bare`, `/device?state=folded&bg=white`, `/device?state=folded-angled&bg=black`, `/device?state=unfold-120&bg=studio`, `/device?state=unfold-120&bg=studio&frame=bare`, `/device?state=unfold-150&bg=studio`, `/device?state=unfold-150&bg=studio&frame=bare`, `/device?state=unfold-30&bg=studio`, `/device?state=unfold-30&bg=studio&frame=bare`, `/device?state=unfold-60&bg=studio`, `/device?state=unfold-60&bg=studio&frame=bare`, `/device?state=unfold-90&bg=studio`, `/device?state=unfold-90&bg=studio&frame=bare`, `/device?state=unfolded&bg=black`, `/device?state=unfolded&bg=studio`, `/device?state=unfolded&bg=studio&frame=bare`
+- `oneui:app-phone`: `/device?state=back&bg=studio`, `/device?state=folded&bg=black`, `/device?state=folded&bg=studio`, `/device?state=folded&bg=studio&frame=bare`, `/device?state=folded&bg=white`, `/device?state=folded-angled&bg=black`, `/device?state=unfold-120&bg=studio`, `/device?state=unfold-120&bg=studio&frame=bare`, `/device?state=unfold-150&bg=studio`, `/device?state=unfold-150&bg=studio&frame=bare`, `/device?state=unfold-30&bg=studio`, `/device?state=unfold-30&bg=studio&frame=bare`, `/device?state=unfold-60&bg=studio`, `/device?state=unfold-60&bg=studio&frame=bare`, `/device?state=unfold-90&bg=studio`, `/device?state=unfold-90&bg=studio&frame=bare`, `/device?state=unfolded&bg=black`, `/device?state=unfolded&bg=studio`, `/device?state=unfolded&bg=studio&frame=bare`
+- `oneui:app-photos`: `/device?state=back&bg=studio`, `/device?state=folded&bg=black`, `/device?state=folded&bg=studio`, `/device?state=folded&bg=studio&frame=bare`, `/device?state=folded&bg=white`, `/device?state=folded-angled&bg=black`, `/device?state=unfold-120&bg=studio`, `/device?state=unfold-120&bg=studio&frame=bare`, `/device?state=unfold-150&bg=studio`, `/device?state=unfold-150&bg=studio&frame=bare`, `/device?state=unfold-30&bg=studio`, `/device?state=unfold-30&bg=studio&frame=bare`, `/device?state=unfold-60&bg=studio`, `/device?state=unfold-60&bg=studio&frame=bare`, `/device?state=unfold-90&bg=studio`, `/device?state=unfold-90&bg=studio&frame=bare`, `/device?state=unfolded&bg=black`, `/device?state=unfolded&bg=studio`, `/device?state=unfolded&bg=studio&frame=bare`
+- `oneui:app-threads`: `/device?state=back&bg=studio`, `/device?state=folded&bg=black`, `/device?state=folded&bg=studio`, `/device?state=folded&bg=studio&frame=bare`, `/device?state=folded&bg=white`, `/device?state=folded-angled&bg=black`, `/device?state=unfold-120&bg=studio`, `/device?state=unfold-120&bg=studio&frame=bare`, `/device?state=unfold-150&bg=studio`, `/device?state=unfold-150&bg=studio&frame=bare`, `/device?state=unfold-30&bg=studio`, `/device?state=unfold-30&bg=studio&frame=bare`, `/device?state=unfold-60&bg=studio`, `/device?state=unfold-60&bg=studio&frame=bare`, `/device?state=unfold-90&bg=studio`, `/device?state=unfold-90&bg=studio&frame=bare`, `/device?state=unfolded&bg=black`, `/device?state=unfolded&bg=studio`, `/device?state=unfolded&bg=studio&frame=bare`
+- `oneui:app-unsaid`: `/device?state=back&bg=studio`, `/device?state=folded&bg=black`, `/device?state=folded&bg=studio`, `/device?state=folded&bg=studio&frame=bare`, `/device?state=folded&bg=white`, `/device?state=folded-angled&bg=black`, `/device?state=unfold-120&bg=studio`, `/device?state=unfold-120&bg=studio&frame=bare`, `/device?state=unfold-150&bg=studio`, `/device?state=unfold-150&bg=studio&frame=bare`, `/device?state=unfold-30&bg=studio`, `/device?state=unfold-30&bg=studio&frame=bare`, `/device?state=unfold-60&bg=studio`, `/device?state=unfold-60&bg=studio&frame=bare`, `/device?state=unfold-90&bg=studio`, `/device?state=unfold-90&bg=studio&frame=bare`, `/device?state=unfolded&bg=black`, `/device?state=unfolded&bg=studio`, `/device?state=unfolded&bg=studio&frame=bare`
+- `oneui:app-whatsapp`: `/device?state=back&bg=studio`, `/device?state=folded&bg=black`, `/device?state=folded&bg=studio`, `/device?state=folded&bg=studio&frame=bare`, `/device?state=folded&bg=white`, `/device?state=folded-angled&bg=black`, `/device?state=unfold-120&bg=studio`, `/device?state=unfold-120&bg=studio&frame=bare`, `/device?state=unfold-150&bg=studio`, `/device?state=unfold-150&bg=studio&frame=bare`, `/device?state=unfold-30&bg=studio`, `/device?state=unfold-30&bg=studio&frame=bare`, `/device?state=unfold-60&bg=studio`, `/device?state=unfold-60&bg=studio&frame=bare`, `/device?state=unfold-90&bg=studio`, `/device?state=unfold-90&bg=studio&frame=bare`, `/device?state=unfolded&bg=black`, `/device?state=unfolded&bg=studio`, `/device?state=unfolded&bg=studio&frame=bare`
+- `oneui:app-whatsapp-business`: `/device?state=back&bg=studio`, `/device?state=folded&bg=black`, `/device?state=folded&bg=studio`, `/device?state=folded&bg=studio&frame=bare`, `/device?state=folded&bg=white`, `/device?state=folded-angled&bg=black`, `/device?state=unfold-120&bg=studio`, `/device?state=unfold-120&bg=studio&frame=bare`, `/device?state=unfold-150&bg=studio`, `/device?state=unfold-150&bg=studio&frame=bare`, `/device?state=unfold-30&bg=studio`, `/device?state=unfold-30&bg=studio&frame=bare`, `/device?state=unfold-60&bg=studio`, `/device?state=unfold-60&bg=studio&frame=bare`, `/device?state=unfold-90&bg=studio`, `/device?state=unfold-90&bg=studio&frame=bare`, `/device?state=unfolded&bg=black`, `/device?state=unfolded&bg=studio`, `/device?state=unfolded&bg=studio&frame=bare`
+- `oneui:search`: `/test/placeholder`
+- `oneui:widget-calendar`: `/device?state=back&bg=studio`, `/device?state=folded&bg=black`, `/device?state=folded&bg=studio`, `/device?state=folded&bg=studio&frame=bare`, `/device?state=folded&bg=white`, `/device?state=folded-angled&bg=black`, `/device?state=unfold-120&bg=studio`, `/device?state=unfold-120&bg=studio&frame=bare`, `/device?state=unfold-150&bg=studio`, `/device?state=unfold-150&bg=studio&frame=bare`, `/device?state=unfold-30&bg=studio`, `/device?state=unfold-30&bg=studio&frame=bare`, `/device?state=unfold-60&bg=studio`, `/device?state=unfold-60&bg=studio&frame=bare`, `/device?state=unfold-90&bg=studio`, `/device?state=unfold-90&bg=studio&frame=bare`, `/device?state=unfolded&bg=black`, `/device?state=unfolded&bg=studio`, `/device?state=unfolded&bg=studio&frame=bare`
+- `oneui:widget-music`: `/device?state=back&bg=studio`, `/device?state=folded&bg=black`, `/device?state=folded&bg=studio`, `/device?state=folded&bg=studio&frame=bare`, `/device?state=folded&bg=white`, `/device?state=folded-angled&bg=black`, `/device?state=unfold-120&bg=studio`, `/device?state=unfold-120&bg=studio&frame=bare`, `/device?state=unfold-150&bg=studio`, `/device?state=unfold-150&bg=studio&frame=bare`, `/device?state=unfold-30&bg=studio`, `/device?state=unfold-30&bg=studio&frame=bare`, `/device?state=unfold-60&bg=studio`, `/device?state=unfold-60&bg=studio&frame=bare`, `/device?state=unfold-90&bg=studio`, `/device?state=unfold-90&bg=studio&frame=bare`, `/device?state=unfolded&bg=black`, `/device?state=unfolded&bg=studio`, `/device?state=unfolded&bg=studio&frame=bare`
+- `oneui:widget-photos`: `/device?state=back&bg=studio`, `/device?state=folded&bg=black`, `/device?state=folded&bg=studio`, `/device?state=folded&bg=studio&frame=bare`, `/device?state=folded&bg=white`, `/device?state=folded-angled&bg=black`, `/device?state=unfold-120&bg=studio`, `/device?state=unfold-120&bg=studio&frame=bare`, `/device?state=unfold-150&bg=studio`, `/device?state=unfold-150&bg=studio&frame=bare`, `/device?state=unfold-30&bg=studio`, `/device?state=unfold-30&bg=studio&frame=bare`, `/device?state=unfold-60&bg=studio`, `/device?state=unfold-60&bg=studio&frame=bare`, `/device?state=unfold-90&bg=studio`, `/device?state=unfold-90&bg=studio&frame=bare`, `/device?state=unfolded&bg=black`, `/device?state=unfolded&bg=studio`, `/device?state=unfolded&bg=studio&frame=bare`
+- `oneui:widget-reminders`: `/device?state=back&bg=studio`, `/device?state=folded&bg=black`, `/device?state=folded&bg=studio`, `/device?state=folded&bg=studio&frame=bare`, `/device?state=folded&bg=white`, `/device?state=folded-angled&bg=black`, `/device?state=unfold-120&bg=studio`, `/device?state=unfold-120&bg=studio&frame=bare`, `/device?state=unfold-150&bg=studio`, `/device?state=unfold-150&bg=studio&frame=bare`, `/device?state=unfold-30&bg=studio`, `/device?state=unfold-30&bg=studio&frame=bare`, `/device?state=unfold-60&bg=studio`, `/device?state=unfold-60&bg=studio&frame=bare`, `/device?state=unfold-90&bg=studio`, `/device?state=unfold-90&bg=studio&frame=bare`, `/device?state=unfolded&bg=black`, `/device?state=unfolded&bg=studio`, `/device?state=unfolded&bg=studio&frame=bare`
+- `oneui:widget-weather`: `/device?state=back&bg=studio`, `/device?state=folded&bg=black`, `/device?state=folded&bg=studio`, `/device?state=folded&bg=studio&frame=bare`, `/device?state=folded&bg=white`, `/device?state=folded-angled&bg=black`, `/device?state=unfold-120&bg=studio`, `/device?state=unfold-120&bg=studio&frame=bare`, `/device?state=unfold-150&bg=studio`, `/device?state=unfold-150&bg=studio&frame=bare`, `/device?state=unfold-30&bg=studio`, `/device?state=unfold-30&bg=studio&frame=bare`, `/device?state=unfold-60&bg=studio`, `/device?state=unfold-60&bg=studio&frame=bare`, `/device?state=unfold-90&bg=studio`, `/device?state=unfold-90&bg=studio&frame=bare`, `/device?state=unfolded&bg=black`, `/device?state=unfolded&bg=studio`, `/device?state=unfolded&bg=studio&frame=bare`
 
 ## Un-Said (`unsaid:`)
 
